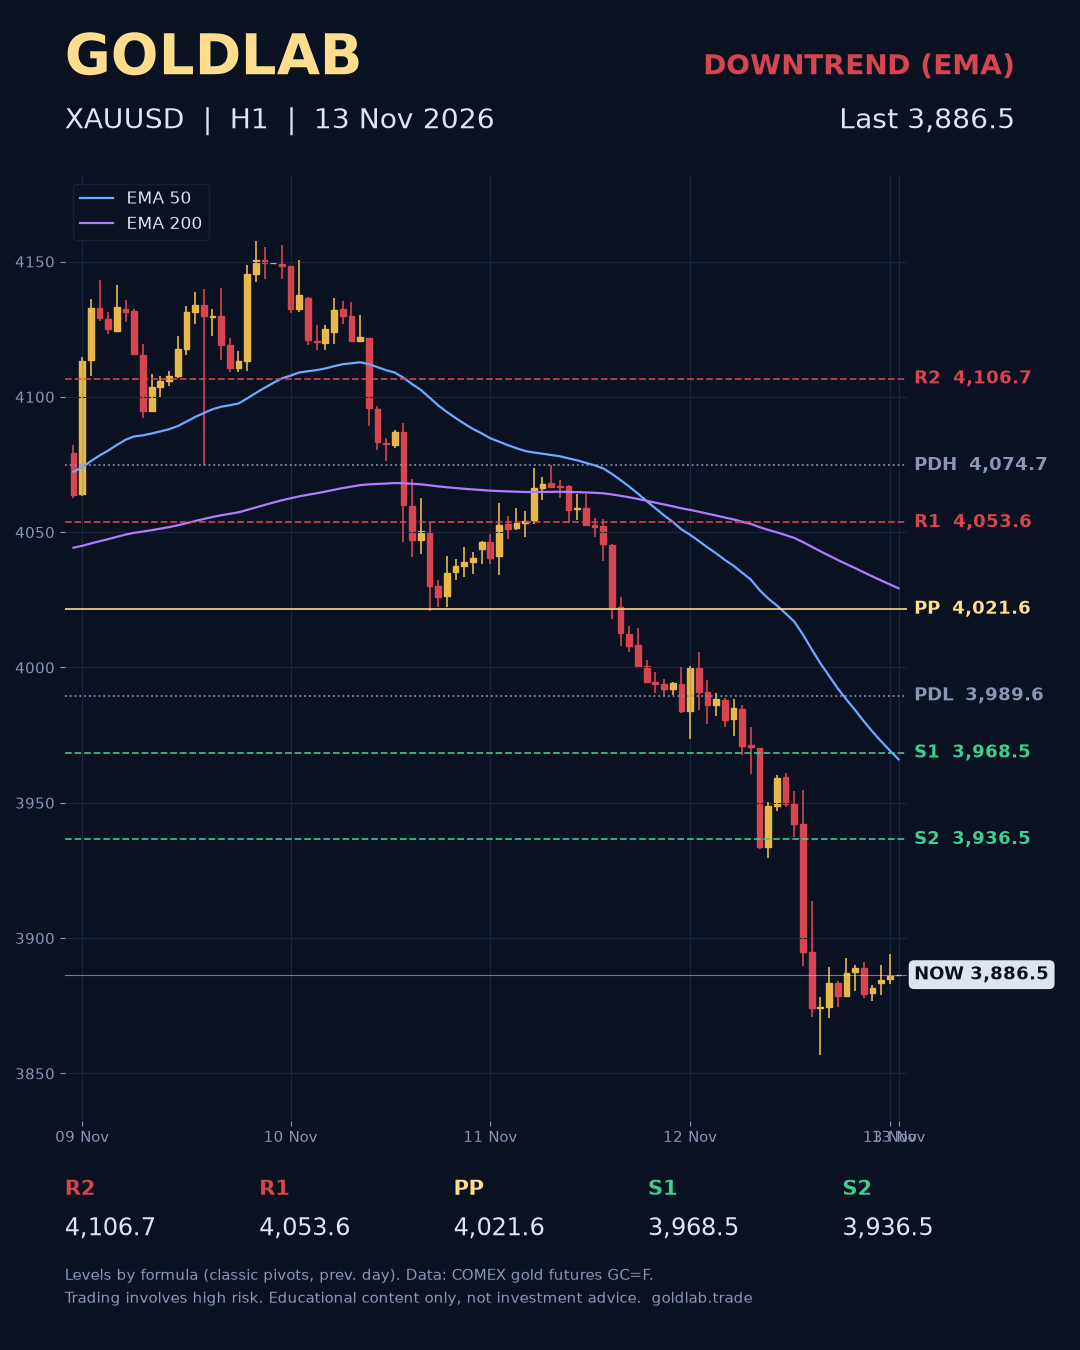
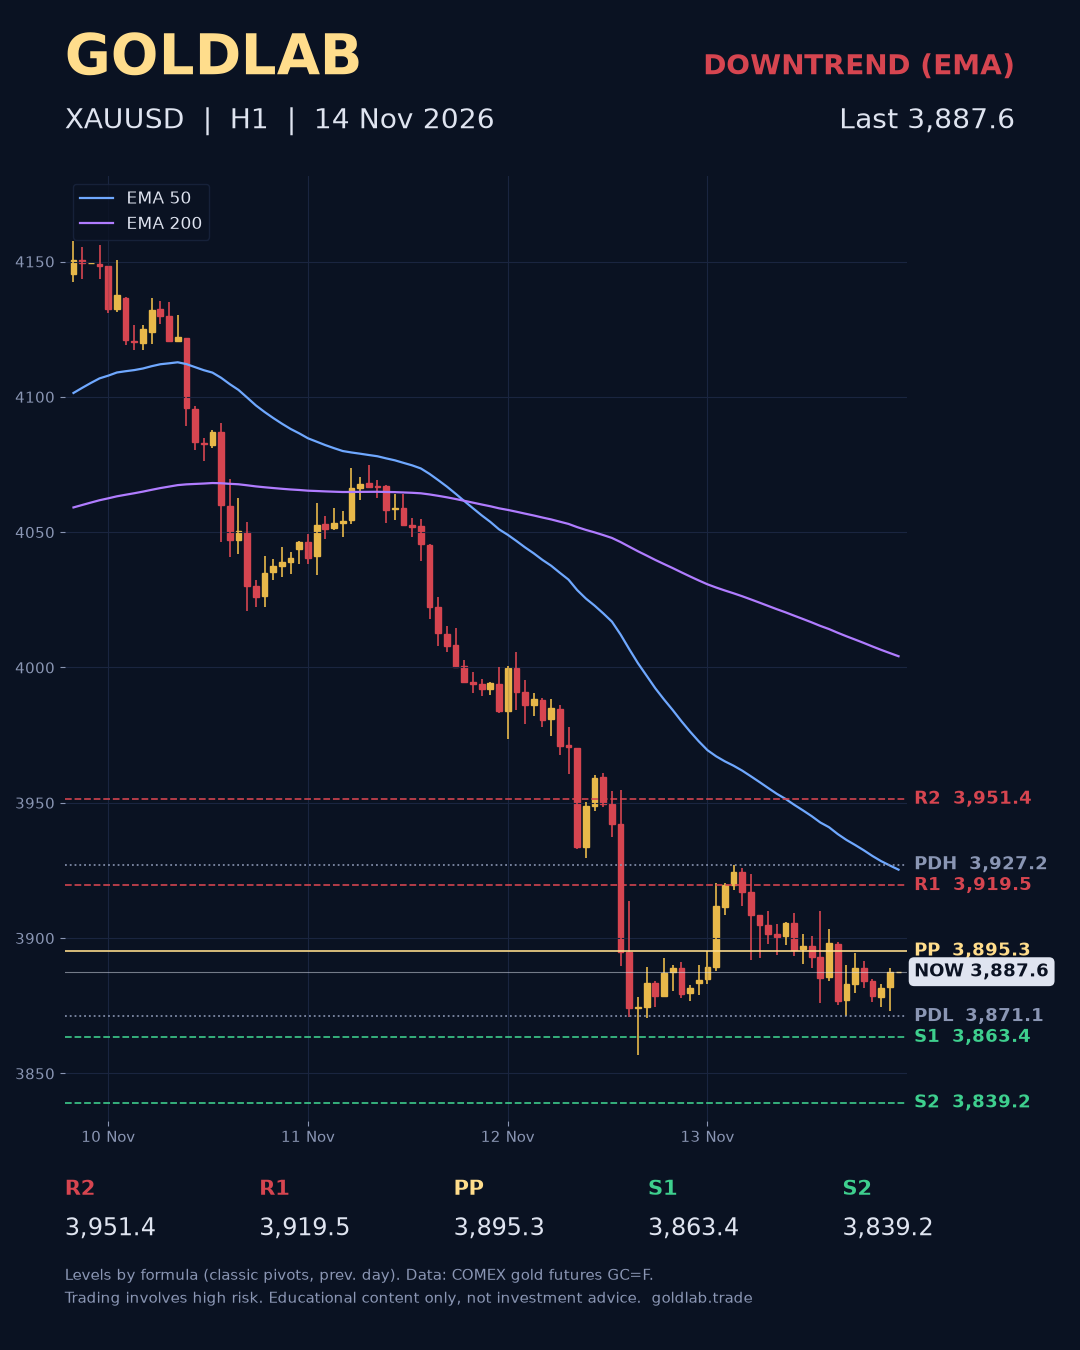
Update gold price 3,887.6 (2026-11-14 00:45 UTC)

diff --git a/th/index.html b/th/index.html
@@ -61,7 +61,7 @@
     </div>
     <figure class="chart-card">
       <img src="../assets/latest.png" alt="กราฟ XAUUSD · H1" width="1080" height="1350">
-      <figcaption class="chart-meta"><span>กราฟ XAUUSD · H1</span><span>อัปเดต <b>2026-11-13 00:45 UTC</b></span></figcaption>
+      <figcaption class="chart-meta"><span>กราฟ XAUUSD · H1</span><span>อัปเดต <b>2026-11-14 00:45 UTC</b></span></figcaption>
     </figure>
   </div>
 </section>
@@ -76,19 +76,19 @@
     <div class="levels">
       <div class="panel">
         <div class="label">ราคาล่าสุด (USD/ออนซ์)</div>
-        <div class="price-big">3,886.5</div>
+        <div class="price-big">3,887.6</div>
         <span class="trend down">ขาลง</span>
         <p class="trend-note">ราคาอยู่ใต้ EMA 50 และ 200 บนกราฟ H1</p>
       </div>
       <div class="panel">
         <div class="ladder">
-          <div class="row r"><span class="tag">R2</span><span class="bar"></span><span class="val">4,106.7</span></div>
-          <div class="row r"><span class="tag">R1</span><span class="bar"></span><span class="val">4,053.6</span></div>
-          <div class="row p"><span class="tag">PIVOT</span><span class="bar"></span><span class="val">4,021.6</span></div>
-          <div class="row s"><span class="tag">S1</span><span class="bar"></span><span class="val">3,968.5</span></div>
-          <div class="row s"><span class="tag">S2</span><span class="bar"></span><span class="val">3,936.5</span></div>
+          <div class="row r"><span class="tag">R2</span><span class="bar"></span><span class="val">3,951.4</span></div>
+          <div class="row r"><span class="tag">R1</span><span class="bar"></span><span class="val">3,919.5</span></div>
+          <div class="row p"><span class="tag">PIVOT</span><span class="bar"></span><span class="val">3,895.3</span></div>
+          <div class="row s"><span class="tag">S1</span><span class="bar"></span><span class="val">3,863.4</span></div>
+          <div class="row s"><span class="tag">S2</span><span class="bar"></span><span class="val">3,839.2</span></div>
         </div>
-        <p class="src">High วันก่อน <b>4,074.7</b> · Low วันก่อน <b>3,989.6</b><br>ข้อมูล: ทองคำล่วงหน้า COMEX (GC=F) ล่าช้าประมาณ 15 นาที ราคาอาจต่างจากราคา spot ในโบรกของคุณเล็กน้อย</p>
+        <p class="src">High วันก่อน <b>3,927.2</b> · Low วันก่อน <b>3,871.1</b><br>ข้อมูล: ทองคำล่วงหน้า COMEX (GC=F) ล่าช้าประมาณ 15 นาที ราคาอาจต่างจากราคา spot ในโบรกของคุณเล็กน้อย</p>
       </div>
     </div>
   </div>

diff --git a/vi/index.html b/vi/index.html
@@ -61,7 +61,7 @@
     </div>
     <figure class="chart-card">
       <img src="../assets/latest.png" alt="Biểu đồ XAUUSD · H1" width="1080" height="1350">
-      <figcaption class="chart-meta"><span>Biểu đồ XAUUSD · H1</span><span>Cập nhật <b>2026-11-13 00:45 UTC</b></span></figcaption>
+      <figcaption class="chart-meta"><span>Biểu đồ XAUUSD · H1</span><span>Cập nhật <b>2026-11-14 00:45 UTC</b></span></figcaption>
     </figure>
   </div>
 </section>
@@ -76,19 +76,19 @@
     <div class="levels">
       <div class="panel">
         <div class="label">Giá gần nhất (USD/oz)</div>
-        <div class="price-big">3,886.5</div>
+        <div class="price-big">3,887.6</div>
         <span class="trend down">Xu hướng giảm</span>
         <p class="trend-note">Giá nằm dưới cả EMA 50 và 200 khung H1.</p>
       </div>
       <div class="panel">
         <div class="ladder">
-          <div class="row r"><span class="tag">R2</span><span class="bar"></span><span class="val">4,106.7</span></div>
-          <div class="row r"><span class="tag">R1</span><span class="bar"></span><span class="val">4,053.6</span></div>
-          <div class="row p"><span class="tag">PIVOT</span><span class="bar"></span><span class="val">4,021.6</span></div>
-          <div class="row s"><span class="tag">S1</span><span class="bar"></span><span class="val">3,968.5</span></div>
-          <div class="row s"><span class="tag">S2</span><span class="bar"></span><span class="val">3,936.5</span></div>
+          <div class="row r"><span class="tag">R2</span><span class="bar"></span><span class="val">3,951.4</span></div>
+          <div class="row r"><span class="tag">R1</span><span class="bar"></span><span class="val">3,919.5</span></div>
+          <div class="row p"><span class="tag">PIVOT</span><span class="bar"></span><span class="val">3,895.3</span></div>
+          <div class="row s"><span class="tag">S1</span><span class="bar"></span><span class="val">3,863.4</span></div>
+          <div class="row s"><span class="tag">S2</span><span class="bar"></span><span class="val">3,839.2</span></div>
         </div>
-        <p class="src">Đỉnh phiên trước <b>4,074.7</b> · Đáy phiên trước <b>3,989.6</b><br>Dữ liệu: hợp đồng vàng tương lai COMEX (GC=F), trễ khoảng 15 phút. Giá có thể chênh vài đô la so với giá spot của sàn bạn dùng.</p>
+        <p class="src">Đỉnh phiên trước <b>3,927.2</b> · Đáy phiên trước <b>3,871.1</b><br>Dữ liệu: hợp đồng vàng tương lai COMEX (GC=F), trễ khoảng 15 phút. Giá có thể chênh vài đô la so với giá spot của sàn bạn dùng.</p>
       </div>
     </div>
   </div>

diff --git a/es/index.html b/es/index.html
@@ -61,7 +61,7 @@
     </div>
     <figure class="chart-card">
       <img src="../assets/latest.png" alt="Gráfico XAUUSD · H1" width="1080" height="1350">
-      <figcaption class="chart-meta"><span>Gráfico XAUUSD · H1</span><span>Actualizado <b>2026-11-13 00:45 UTC</b></span></figcaption>
+      <figcaption class="chart-meta"><span>Gráfico XAUUSD · H1</span><span>Actualizado <b>2026-11-14 00:45 UTC</b></span></figcaption>
     </figure>
   </div>
 </section>
@@ -76,19 +76,19 @@
     <div class="levels">
       <div class="panel">
         <div class="label">Último precio (USD/oz)</div>
-        <div class="price-big">3,886.5</div>
+        <div class="price-big">3,887.6</div>
         <span class="trend down">Tendencia bajista</span>
         <p class="trend-note">El precio está por debajo de la EMA 50 y 200 en H1.</p>
       </div>
       <div class="panel">
         <div class="ladder">
-          <div class="row r"><span class="tag">R2</span><span class="bar"></span><span class="val">4,106.7</span></div>
-          <div class="row r"><span class="tag">R1</span><span class="bar"></span><span class="val">4,053.6</span></div>
-          <div class="row p"><span class="tag">PIVOT</span><span class="bar"></span><span class="val">4,021.6</span></div>
-          <div class="row s"><span class="tag">S1</span><span class="bar"></span><span class="val">3,968.5</span></div>
-          <div class="row s"><span class="tag">S2</span><span class="bar"></span><span class="val">3,936.5</span></div>
+          <div class="row r"><span class="tag">R2</span><span class="bar"></span><span class="val">3,951.4</span></div>
+          <div class="row r"><span class="tag">R1</span><span class="bar"></span><span class="val">3,919.5</span></div>
+          <div class="row p"><span class="tag">PIVOT</span><span class="bar"></span><span class="val">3,895.3</span></div>
+          <div class="row s"><span class="tag">S1</span><span class="bar"></span><span class="val">3,863.4</span></div>
+          <div class="row s"><span class="tag">S2</span><span class="bar"></span><span class="val">3,839.2</span></div>
         </div>
-        <p class="src">Máximo anterior <b>4,074.7</b> · Mínimo anterior <b>3,989.6</b><br>Datos: futuros de oro COMEX (GC=F), con ~15 min de retraso. Pueden diferir unos dólares del precio spot de tu bróker.</p>
+        <p class="src">Máximo anterior <b>3,927.2</b> · Mínimo anterior <b>3,871.1</b><br>Datos: futuros de oro COMEX (GC=F), con ~15 min de retraso. Pueden diferir unos dólares del precio spot de tu bróker.</p>
       </div>
     </div>
   </div>

diff --git a/id/index.html b/id/index.html
@@ -61,7 +61,7 @@
     </div>
     <figure class="chart-card">
       <img src="../assets/latest.png" alt="Grafik XAUUSD · H1" width="1080" height="1350">
-      <figcaption class="chart-meta"><span>Grafik XAUUSD · H1</span><span>Diperbarui <b>2026-11-13 00:45 UTC</b></span></figcaption>
+      <figcaption class="chart-meta"><span>Grafik XAUUSD · H1</span><span>Diperbarui <b>2026-11-14 00:45 UTC</b></span></figcaption>
     </figure>
   </div>
 </section>
@@ -76,19 +76,19 @@
     <div class="levels">
       <div class="panel">
         <div class="label">Harga terakhir (USD/oz)</div>
-        <div class="price-big">3,886.5</div>
+        <div class="price-big">3,887.6</div>
         <span class="trend down">Tren turun</span>
         <p class="trend-note">Harga berada di bawah EMA 50 dan 200 pada H1.</p>
       </div>
       <div class="panel">
         <div class="ladder">
-          <div class="row r"><span class="tag">R2</span><span class="bar"></span><span class="val">4,106.7</span></div>
-          <div class="row r"><span class="tag">R1</span><span class="bar"></span><span class="val">4,053.6</span></div>
-          <div class="row p"><span class="tag">PIVOT</span><span class="bar"></span><span class="val">4,021.6</span></div>
-          <div class="row s"><span class="tag">S1</span><span class="bar"></span><span class="val">3,968.5</span></div>
-          <div class="row s"><span class="tag">S2</span><span class="bar"></span><span class="val">3,936.5</span></div>
+          <div class="row r"><span class="tag">R2</span><span class="bar"></span><span class="val">3,951.4</span></div>
+          <div class="row r"><span class="tag">R1</span><span class="bar"></span><span class="val">3,919.5</span></div>
+          <div class="row p"><span class="tag">PIVOT</span><span class="bar"></span><span class="val">3,895.3</span></div>
+          <div class="row s"><span class="tag">S1</span><span class="bar"></span><span class="val">3,863.4</span></div>
+          <div class="row s"><span class="tag">S2</span><span class="bar"></span><span class="val">3,839.2</span></div>
         </div>
-        <p class="src">High sebelumnya <b>4,074.7</b> · Low sebelumnya <b>3,989.6</b><br>Data: emas berjangka COMEX (GC=F), tertunda ~15 menit. Harga bisa berbeda beberapa dolar dari harga spot broker Anda.</p>
+        <p class="src">High sebelumnya <b>3,927.2</b> · Low sebelumnya <b>3,871.1</b><br>Data: emas berjangka COMEX (GC=F), tertunda ~15 menit. Harga bisa berbeda beberapa dolar dari harga spot broker Anda.</p>
       </div>
     </div>
   </div>

diff --git a/index.html b/index.html
@@ -61,7 +61,7 @@
     </div>
     <figure class="chart-card">
       <img src="assets/latest.png" alt="XAUUSD · H1 chart" width="1080" height="1350">
-      <figcaption class="chart-meta"><span>XAUUSD · H1 chart</span><span>Updated <b>2026-11-13 00:45 UTC</b></span></figcaption>
+      <figcaption class="chart-meta"><span>XAUUSD · H1 chart</span><span>Updated <b>2026-11-14 00:45 UTC</b></span></figcaption>
     </figure>
   </div>
 </section>
@@ -76,19 +76,19 @@
     <div class="levels">
       <div class="panel">
         <div class="label">Last price (USD/oz)</div>
-        <div class="price-big">3,886.5</div>
+        <div class="price-big">3,887.6</div>
         <span class="trend down">Downtrend</span>
         <p class="trend-note">Price is below both the 50 and 200 EMA on H1.</p>
       </div>
       <div class="panel">
         <div class="ladder">
-          <div class="row r"><span class="tag">R2</span><span class="bar"></span><span class="val">4,106.7</span></div>
-          <div class="row r"><span class="tag">R1</span><span class="bar"></span><span class="val">4,053.6</span></div>
-          <div class="row p"><span class="tag">PIVOT</span><span class="bar"></span><span class="val">4,021.6</span></div>
-          <div class="row s"><span class="tag">S1</span><span class="bar"></span><span class="val">3,968.5</span></div>
-          <div class="row s"><span class="tag">S2</span><span class="bar"></span><span class="val">3,936.5</span></div>
+          <div class="row r"><span class="tag">R2</span><span class="bar"></span><span class="val">3,951.4</span></div>
+          <div class="row r"><span class="tag">R1</span><span class="bar"></span><span class="val">3,919.5</span></div>
+          <div class="row p"><span class="tag">PIVOT</span><span class="bar"></span><span class="val">3,895.3</span></div>
+          <div class="row s"><span class="tag">S1</span><span class="bar"></span><span class="val">3,863.4</span></div>
+          <div class="row s"><span class="tag">S2</span><span class="bar"></span><span class="val">3,839.2</span></div>
         </div>
-        <p class="src">Previous high <b>4,074.7</b> · Previous low <b>3,989.6</b><br>Data: COMEX gold futures (GC=F), delayed ~15 min. Quotes can differ from your broker's spot price by a few dollars.</p>
+        <p class="src">Previous high <b>3,927.2</b> · Previous low <b>3,871.1</b><br>Data: COMEX gold futures (GC=F), delayed ~15 min. Quotes can differ from your broker's spot price by a few dollars.</p>
       </div>
     </div>
   </div>
